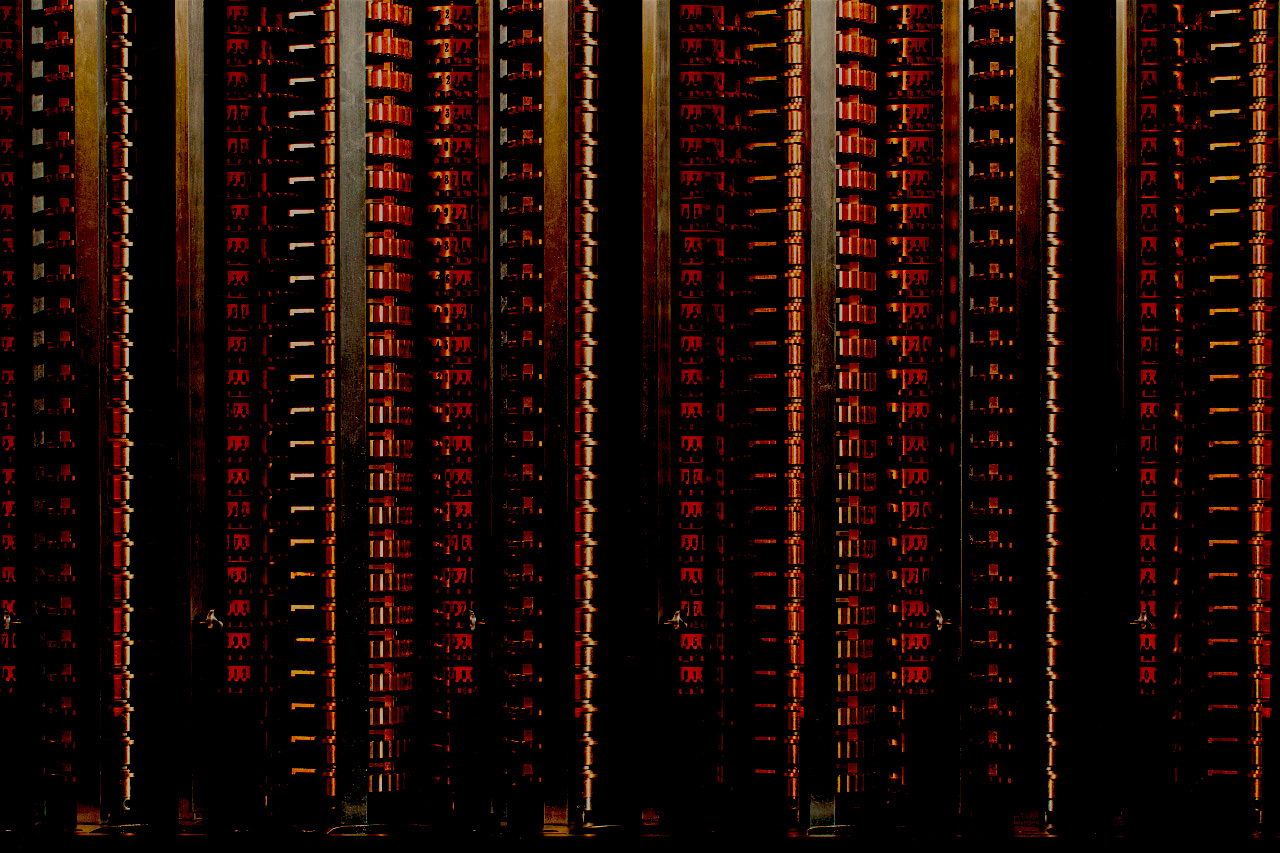
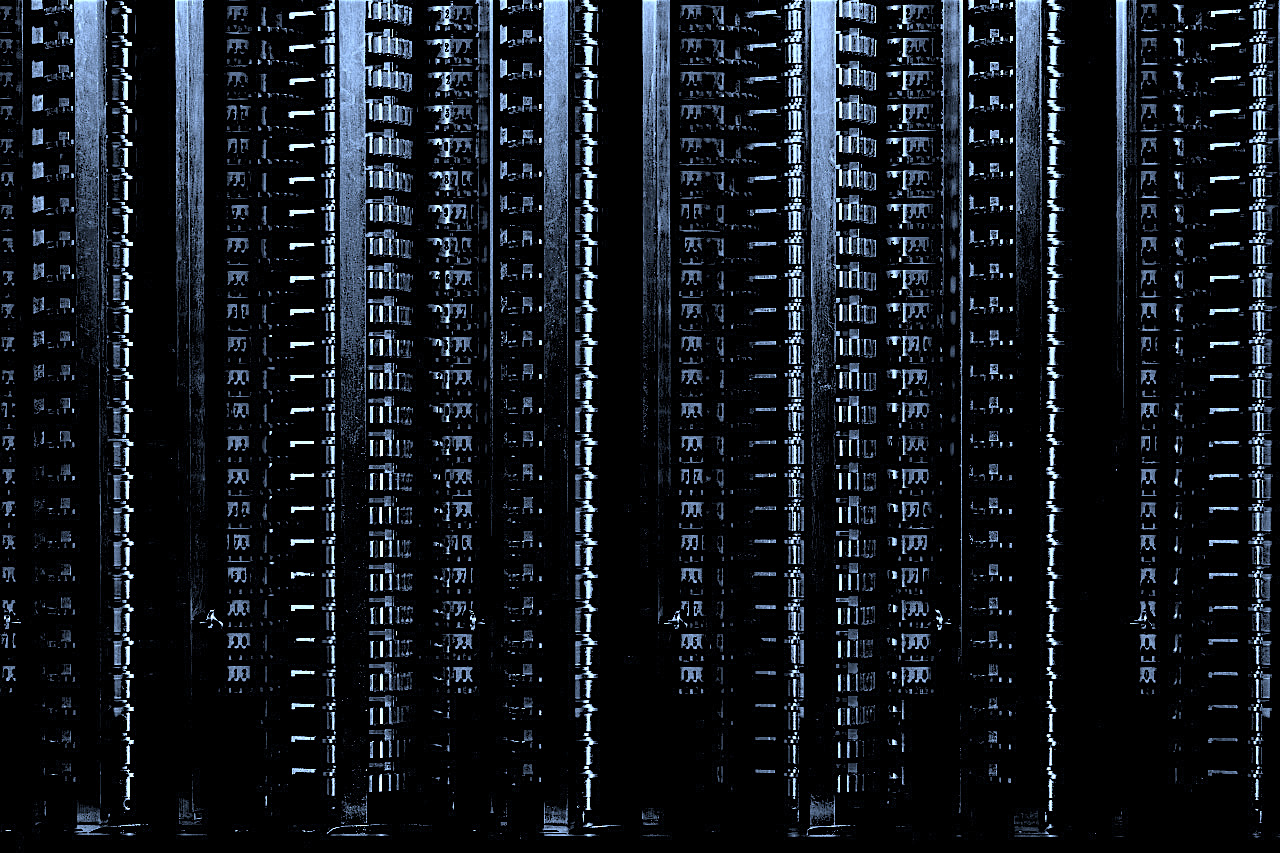
Changed fonts, colours.

diff --git a/css/grayscale.scss b/css/grayscale.scss
@@ -13,7 +13,8 @@
 body {
     width: 100%;
     height: 100%;
-    font-family: "Lora","Helvetica Neue",Helvetica,Arial,sans-serif;
+    // font-family: "Lora","Helvetica Neue",Helvetica,Arial,sans-serif;
+    font-family: 'Menlo', 'Courier', monospace;
     color: $light;
     background-color: $dark;
 }
@@ -30,19 +31,21 @@ h4,
 h5,
 h6 {
     margin: 0 0 35px;
-    text-transform: uppercase;
-    font-family: "Montserrat","Helvetica Neue",Helvetica,Arial,sans-serif;
-    font-weight: 700;
+    text-transform: lowercase;
+    font-family: 'Menlo', 'Courier', monospace;
+    // font-family: "Montserrat","Helvetica Neue",Helvetica,Arial,sans-serif;
+    font-weight: 400;
     letter-spacing: 1px;
 }
 
 p {
+    font-weight: 200;
     margin: 0 0 25px;
-    font-size: 18px;
+    font-size: 13px;
     line-height: 1.5;
     @media(min-width:768px) {
         margin: 0 0 35px;
-        font-size: 20px;
+        font-size: 17px;
         line-height: 1.6;
     }
 }
@@ -63,15 +66,17 @@ a {
     &:hover,
     &:focus {
         text-decoration: none;
-        color: darken($primary,20%);
+        color: darken($primary,80%);
     }
 }
 
 .navbar-custom {
+    font-size: 16px;
     margin-bottom: 0;
     border-bottom: 1px solid rgba($light, 0.3);
-    text-transform: uppercase;
-    font-family: "Montserrat","Helvetica Neue",Helvetica,Arial,sans-serif;
+    text-transform: lowercase;
+    font-family: 'Menlo', 'Courier', monospace;
+    // font-family: "Montserrat","Helvetica Neue",Helvetica,Arial,sans-serif;
     background-color: $navbar-sm-background-color;
 
     /* Fix height limit and scroll for small screen and many items menu */
@@ -88,7 +93,7 @@ a {
         }
     }
     .navbar-brand {
-        font-weight: 700;
+        font-weight: 400;
         &:focus {
             outline: none;
         }
@@ -166,7 +171,7 @@ a {
             font-size: 40px;
         }
         .intro-text {
-            font-size: 18px;
+            font-size: 15px;
             @if $navbar-text-shadow {
                 text-shadow: 1px 0 1px #000;
             }
@@ -338,10 +343,11 @@ body {
 
 /* Added in { Personal } for Typed Cursor in Header */
 .typed-cursor{
-    opacity: 1;
-    -webkit-animation: blink 0.7s infinite;
-    -moz-animation: blink 0.7s infinite;
-    animation: blink 0.7s infinite;
+    display: none;
+    // opacity: 1;
+    // -webkit-animation: blink 0.7s infinite;
+    // -moz-animation: blink 0.7s infinite;
+    // animation: blink 0.7s infinite;
 }
 @keyframes blink{
     0% { opacity:1; }

diff --git a/about.html b/about.html
@@ -7,5 +7,7 @@ title: About
 
 I’m a financial journalist, linguist and China specialist who’s discovered the joy of coding and can never go back. Fresh out of web development bootcamp, I’m in love with Ruby and have a complicated relationship with JavaScript. I'm enjoying getting to know Python and the Cs.
 
-In my spare time I write short stories and sometimes poems; currently halfway through a novel set in Cambridge in the 1930s and ‘40s. I love literature, but suffer from Tsundoku - the compulsive habit of buying books faster than I can read them. 
+In my spare time I write short stories and sometimes poems; I'm currently halfway through a novel. I love literature, but suffer from Tsundoku - the compulsive habit of buying books faster than I can read them.
+
+I'm starting a blog about code; I'll try to stick to the point, but it's only a matter of time before I get drunk and start raving about Bob Dylan. You've been warned.
 

diff --git a/_includes/contact.html b/_includes/contact.html
@@ -24,7 +24,7 @@
               </script>
             </p>
         {% else %}
-          <p><a href="mailto:{{ site.email }}">{{ site.email }}</a></p>
+          <h5><a href="mailto:{{ site.email }}">{{ site.email }}</a></h5>
         {% endif %}
       {% endif %}
 

diff --git a/_sass/_variables.scss b/_sass/_variables.scss
@@ -1,8 +1,10 @@
 // Variables
 
-$primary: #00cdff;
-$dark: #000;
-$light: #fff;
+// $primary: #00cdff;
+$primary: #00f0ff;
+// $dark: #77B4E6;
+$dark: #3B8BCC;
+$light: #f0f0f0;
 
 $navbar-text-shadow: true;
 $header-text-shadow: true;
